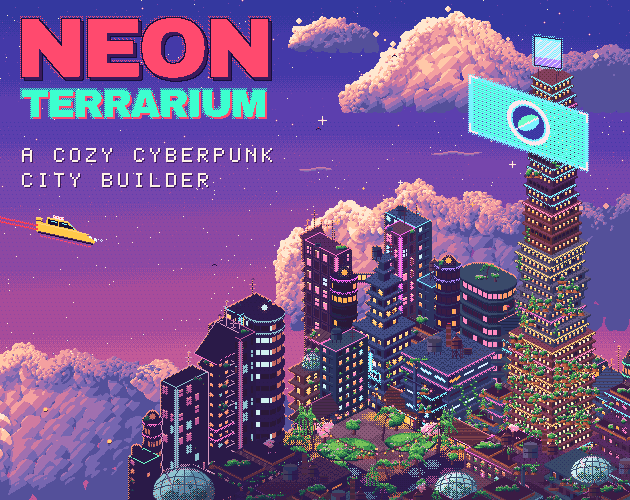
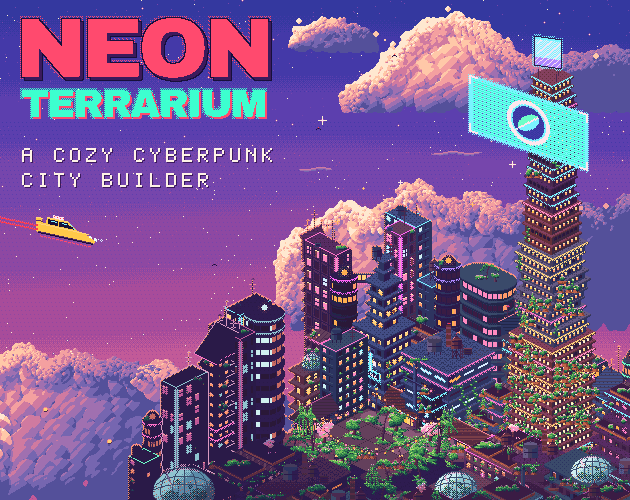
Cover art: garden plaza with organic grass patches, clean paved floor, stepped light pools
Claude-Session: https://claude.ai/code/session_01F4MPX99podf2NwUC3T9owt

Changed region(s): [[0.4524, 0.81, 0.754, 1.0], [0.754, 0.93, 0.8143, 0.96], [0.9952, 0.63, 1.0, 0.66]]

diff --git a/cover-art/cover.px.js b/cover-art/cover.px.js
@@ -207,6 +207,14 @@ const bank = (o) => {
     let t = 6; for (let j = 0; j < 6; j++) if (s > th[j]) { t = j; break }
     tone[(y - top) * bw + (x - bx0)] = t
   }
+  // close pin-holes of sky enclosed inside the cloud
+  for (let pass = 0; pass < 3; pass++) for (let y = top + 1; y < top + bh - 1; y++) for (let x = bx0 + 1; x < bx1; x++) {
+    const i = (y - top) * bw + (x - bx0)
+    if (tone[i] >= 0) continue
+    const cnt = {}; let n = 0
+    for (let dy = -1; dy <= 1; dy++) for (let dx = -1; dx <= 1; dx++) { if (!dx && !dy) continue; const t = tone[i + dy * bw + dx]; if (t >= 0) { cnt[t] = (cnt[t] || 0) + 1; n++ } }
+    if (n >= 5) tone[i] = +Object.keys(cnt).sort((p, q) => cnt[q] - cnt[p])[0]
+  }
   for (let pass = 0; pass < 2; pass++) {
     const nt = tone.slice()
     for (let y = top + 1; y < top + bh - 1; y++) for (let x = bx0 + 1; x < bx1; x++) {
@@ -310,6 +318,7 @@ const GROUND_Y = 440
 const grounded = (x, y, k) => {
   if (y < GROUND_Y || "$-+[=".includes(k)) return k
   const t = (y - GROUND_Y) / (H - GROUND_Y)
+  if ("*()AB".includes(k)) { const st = Math.floor(clamp(t, 0, 1) * 3.99); return st ? darkKey(k, 0.1 + 0.1 * st) : k }      // the floor darkens in clean bands
   return bay(x, y) < Math.min(1, t * 1.15) ? darkKey(k, 0.12 + 0.33 * t) : k
 }
 // what a raw key becomes at (x, y) once the haze, the dark corner, the warm core and the gradient are on it
@@ -326,7 +335,7 @@ const glowAround = (pts, k, reach = 2, sink) => {
     if (d === 0 || d > reach) continue
     const nx = x + dx, ny = y + dy
     if (!inb(nx, ny) || set.has(nx + ny * W)) continue
-    if (EMIT.has(get(nx, ny))) continue
+    if (EMIT.has(get(nx, ny)) || GROUNDSET.has(get(nx, ny))) continue
     if (d === 1 ? ((nx + ny) & 1) === 0 : (nx & 1) === 0 && (ny & 1) === 0) {
       if (sink) sink.push([nx, ny, k, get(nx, ny)])
       put(nx, ny, k)
@@ -573,23 +582,6 @@ const moss = (x, y, len, seed) => {
     if (ih(x + i, seed, 92) < 0.22) { put(x + i, y + 1, "o"); put(x + i, y + 2, "O") }
   }
 }
-// a mottled lawn: patches of lit, mid and shaded grass, tufts, clover flowers
-const lawn = (lx, ly, rx, ry, seed) => {
-  for (let y = -ry; y <= ry; y++) for (let x = -rx; x <= rx; x++) {
-    const dd = (x * x) / (rx * rx) + (y * y) / (ry * ry)
-    if (dd > 1) continue
-    const nz = Math.sin((lx + x) * 0.23 + seed) + Math.sin((ly + y) * 0.55 + (lx + x) * 0.07) + 0.9 * (y / ry)
-    let k = dd > 0.8 ? (y > 0 ? "8" : "O") : nz < -0.7 ? "g" : nz < 0.9 ? "o" : "O"
-    if (dd > 0.8 && y < 0) k = "o"
-    if (dd < 0.8 && ih(lx + x, ly + y, seed) < 0.1) { put(lx + x, ly + y - 1, "g"); k = "g" }
-    put(lx + x, ly + y, k)
-  }
-  for (let i = 0; i < Math.round(rx * ry / 45); i++) {
-    const px = Math.round(lx + (ih(seed, i, 31) * 2 - 1) * rx * 0.75), py = Math.round(ly + (ih(seed, i, 32) * 2 - 1) * ry * 0.7)
-    if (i % 3 === 0) put(px, py, ["z", "W", "Y"][i % 3 + (i % 2)] || "W")
-    else leafMass(px, py, 2.6, seed + i, { sq: 0.8, lr: 2 })
-  }
-}
 const stringLights = (x1, y1, x2, y2, sag, seed) => {
   const dx = x2 - x1, n = Math.max(2, Math.floor(Math.abs(dx) / 7)), cols = ["h", "L", "y", "z"]
   for (let x = Math.min(x1, x2); x <= Math.max(x1, x2); x++) { const t = (x - x1) / dx; put(x, Math.round(y1 + (y2 - y1) * t + sag * (1 - Math.pow(2 * t - 1, 2))), "E") }
@@ -601,17 +593,69 @@ const stringLights = (x1, y1, x2, y2, sag, seed) => {
   glowAround(pts, "T", 3)
 }
 const GROUNDSET = new Set("AB*()")
-const pool = (cx, cy, rx, ry, k, dens) => {
+const POOLUP = { A: "(", B: "(", "(": "*", ")": "(" }
+// warm light on the floor: a hard-edged ellipse that lifts the stone one step (two overlapping pools make two steps)
+const pool = (cx, cy, rx, ry) => {
   for (let y = -ry; y <= ry; y++) for (let x = -rx; x <= rx; x++) {
-    const dd = (x * x) / (rx * rx) + (y * y) / (ry * ry)
-    if (dd > 1 || !GROUNDSET.has(get(cx + x, cy + y))) continue
-    if (bay(cx + x, cy + y) < (1 - dd) * dens) put(cx + x, cy + y, k)
+    if ((x * x) / (rx * rx) + (y * y) / (ry * ry) > 1) continue
+    const up = POOLUP[get(cx + x, cy + y)]
+    if (up) put(cx + x, cy + y, up)
+  }
+}
+// an organic patch of grass drawn on the iso ground plane (cell units ra, rb along the two ground axes): a lumpy outline
+// with bitten edges, a lit top-left rim, a shadow rim bottom-right, tufts in clusters, tiny flowers, a few bushes and ferns
+const GREENK = "7goO8"
+const patch = (cx, cy, ra, rb, seed, o = {}) => {
+  const s1 = seed * 1.7, s2 = seed * 2.3, s3 = seed * 0.9
+  const f = (th) => 1 + 0.26 * Math.sin(3 * th + s1) + 0.16 * Math.sin(5 * th + s2) + 0.09 * Math.sin(8 * th + s3)
+  const ext = Math.ceil(Math.hypot(ra, rb) * 16 * 1.45) + 3
+  const band = 1.7 / (Math.min(ra, rb) * 15 + 1)
+  const inPatch = []
+  for (let y = -Math.ceil(ext / 2) - 2; y <= Math.ceil(ext / 2) + 2; y++) for (let x = -ext; x <= ext; x++) {
+    const a = (x / 16 + y / 8) / 2, b = (y / 8 - x / 16) / 2
+    const r = Math.hypot(a / ra, b / rb), ff = f(Math.atan2(b / rb, a / ra))
+    if (r > ff) continue
+    const e = ff - r, gx = cx + x, gy = cy + y
+    const cur = get(gx, gy)
+    if (!(GROUNDSET.has(cur) || GREENK.includes(cur))) continue
+    const h = ih(gx, gy, seed + 5), h2 = ih(gx, gy, seed + 6)
+    if (e < band * 1.1 && h < 0.3) continue
+    const facing = -(x * 0.55 + y * 0.9)
+    const nz = Math.sin(gx * 0.33 + seed) * Math.sin(gy * 0.85 + seed * 1.3)
+    let k = "o"
+    if (e < band && facing > 0) k = h2 < 0.25 ? "7" : "g"
+    else if (e < band * 1.4 && facing < 0) k = e < band * 0.55 ? "8" : "O"
+    else if (nz > 0.3 && h < 0.45) k = "g"
+    else if (nz < -0.5 && h < 0.4) k = "O"
+    else if (facing > 8 && h2 > 0.94) k = "7"
+    if (o.tint && k === "g" && facing > 0 && h < 0.08) k = o.tint
+    inPatch.push([gx, gy, e])
+    put(gx, gy, k)
+  }
+  // grass blades: short 1 to 2 px strokes, clustered
+  for (const [gx, gy, e] of inPatch) {
+    if (e < band * 1.2) continue
+    const nz = Math.sin(gx * 0.33 + seed) * Math.sin(gy * 0.85 + seed * 1.3)
+    if (nz > 0.1 && ih(gx, gy, seed + 7) < 0.13) { put(gx, gy - 1, "g"); if (ih(gx, gy, seed + 8) < 0.4) put(gx + 1, gy - 1, "7") }
+    else if (ih(gx, gy, seed + 9) > 0.992) put(gx, gy, ["z", ":", "V", "z", ":"][Math.floor(ih(gx, gy, seed + 10) * 5)])
+  }
+  if (o.bushes && inPatch.length > 60) for (let i = 0; i < o.bushes; i++) {
+    const [gx, gy] = inPatch[Math.floor(ih(seed, i, 71) * inPatch.length)]
+    if (i % 2) fern(gx, gy, seed + i); else leafMass(gx, gy - 2, 2.6 + ih(seed, i, 72) * 1.2, seed + i, { sq: 0.85, lr: 2, warm: o.warm ?? 0, dots: ih(seed, i, 73) < 0.4 ? [["z", ":"], 2] : null })
+  }
+}
+// pink petals fallen on the ground round a blossom tree
+const petals = (x, y, seed) => {
+  for (let i = 0; i < 14; i++) {
+    const px = Math.round(x + (ih(seed, i, 81) * 2 - 1) * 14), py = Math.round(y + 1 + (ih(seed, i, 82) * 2 - 1) * 6)
+    const c = get(px, py)
+    if (GROUNDSET.has(c) || GREENK.includes(c)) put(px, py, i % 3 ? "J" : "z")
   }
 }
 const streetLamp = (x, y) => {
   vlineK(x, y - 13, 13, "E"); rectK(x - 1, y - 15, 4, 2, "h")
   glowAround([[x - 1, y - 15], [x, y - 15], [x + 1, y - 15], [x + 2, y - 15], [x - 1, y - 14], [x, y - 14], [x + 1, y - 14], [x + 2, y - 14]], "T", 3)
-  pool(x, y, 11, 5, "y", 0.55)
+  pool(x, y, 11, 5)
 }
 
 // ---------------------------------------------------------------- rooftop and wall props
@@ -1407,7 +1451,7 @@ const drawBuilding = (bd) => {
     mods.push(m0)
     wallBoards(bd, m0, 2, accent, wk, ["board", "icon"], 22)
     const [px, py] = [PXs(a0, b0 + d) + Math.round(ISO * w * 0.5), PYs(a0, b0 + d) + 3]
-    pool(px, py + 3, 30, 9, "L", 0.85); pool(px, py + 3, 20, 6, "y", 0.8)
+    pool(px, py + 3, 30, 9); pool(px, py + 3, 20, 6)
     const rb = st.roofBox
     const [x1, y1] = rb.pt(a0 + 0.2, b0 + d - 0.2), [x2, y2] = rb.pt(a0 + w - 0.2, b0 + d - 0.2)
     stringLights(x1 + 2, y1 - 8, x2 - 2, y2 - 8, 4, id)
@@ -1438,7 +1482,7 @@ const drawBuilding = (bd) => {
     const nL = Math.max(2, Math.round(Math.abs(ex2 - ex1) / 11))
     for (let i = 0; i <= nL; i++) { const t = (i + 0.5) / (nL + 1); lantern(Math.round(ex1 + (ex2 - ex1) * t), Math.round(ey1 + (ey2 - ey1) * t) + 1, ["z", "y", "L"][(i + id) % 3]) }
     const [px, py] = [PXs(a0, b0 + d) + Math.round(ISO * w * 0.5), PYs(a0, b0 + d) + 3]
-    pool(px, py + 3, 26, 8, "L", 0.85); pool(px, py + 3, 16, 5, "y", 0.8)
+    pool(px, py + 3, 26, 8); pool(px, py + 3, 16, 5)
     if (!far) { const [wx, wy] = wallXY("L", { a: a0, b: b0, w, d, z: 0, h: st.z }, 6, 15); potRow(wx, wy + 2, 2, 7, id + 4); const [mx, my] = wallXY("R", { a: a0, b: b0, w, d, z: 0, h: st.z }, 4, 15); fern(mx, my + 2, id) }
   } else if (type === "grid") {
     // a boxy apartment block: a grid of small pink, peach and blue windows, each with a balcony rail and a tiny plant
@@ -1586,7 +1630,9 @@ for (let y = 150; y < H; y++) for (let x = 120; x < W; x++) {
   if (!cellOK(ia, ib)) continue
   curLevel = levelFor(y); curDark = darkFor(x, y)
   const plaza = inRect(PLAZA, ia, ib)
-  put(x, y, plaza ? ((((ia + ib) & 1) ? bay(x, y) < 0.85 : bay(x, y) < 0.35) ? "*" : "(") : (bay(x, y) < 0.22 ? "A" : "B"))
+  const fa = (u + v) / 2 - ia, fb = (v - u) / 2 - ib
+  const seam = fa < 0.034 || fb < 0.034
+  put(x, y, plaza ? (seam ? ")" : ((ia * 7 + ib * 13) % 5 === 0 ? "*" : "(")) : (seam ? "A" : "B"))
 }
 curLevel = 0; curDark = 0
 // neon spill and shop light pooled on the streets
@@ -1594,9 +1640,7 @@ for (let a = 12; a <= 70; a++) for (let b = 0; b <= 40; b++) {
   if (!cellOK(a, b) || !isStreet(a, b)) continue
   const [cx, cy] = cellXY(a, b), q = ih(a, b, 61)
   curLevel = levelFor(cy); curDark = darkFor(cx, cy)
-  if (q < 0.18) pool(cx, cy, 12, 5, "H", 0.5)
-  else if (q < 0.36) pool(cx, cy, 12, 5, "n", 0.5)
-  else if (q < 0.62) { pool(cx, cy, 14, 6, "L", 0.8); pool(cx, cy, 8, 3, "y", 0.7) }
+  if (q >= 0.36 && q < 0.62) { pool(cx, cy, 14, 6); pool(cx, cy, 8, 3) }
 }
 curLevel = 0
 const props = []
@@ -1627,6 +1671,7 @@ for (const e of order) {
     const x = cx0 + Math.round((ih(e.a, e.b, 66) - 0.5) * 14), y = cy0 + 5 + Math.round(ih(e.a, e.b, 67) * 4)
     curLevel = levelFor(cy0); curDark = darkFor(cx0, cy0)
     const wm = ih(e.a, e.b, 68) < 0.5 ? -1 : 1
+    if (e.kind !== "shrub") patch(x, y + 1, 0.3 + 0.12 * ih(e.a, e.b, 83), 0.22, sd + 3, {})
     if (e.kind === "tree") streetTree(x, y, 5 + Math.floor(ih(e.a, e.b, 69) * 4), sd, { warm: wm })
     else if (e.kind === "palm") palm(x, y, 16 + Math.floor(ih(e.a, e.b, 69) * 10), sd, wm * 4)
     else if (e.kind === "bamboo") bamboo(x, y, 16 + Math.floor(ih(e.a, e.b, 69) * 8), 3 + (sd % 2), sd)
@@ -1637,29 +1682,33 @@ for (const e of order) {
     const pcx = 16 * (PLAZA.a0 + PLAZA.w / 2 - PLAZA.b0 - PLAZA.d / 2), pcy = 8 * (PLAZA.a0 + PLAZA.w / 2 + PLAZA.b0 + PLAZA.d / 2)
     curLevel = levelFor(pcy); curDark = darkFor(pcx, pcy)
     // two mottled lawns; then, back to front, bamboo, palms, a pair of blossom trees, round trees, benches, pots, ferns
-    lawn(pcx - 30, pcy + 5, 30, 12, 3); lawn(pcx + 34, pcy - 2, 26, 10, 7)
+    // two big organic beds with clear stone paths between them, patches at the foot of every tree, along the edges and in the cracks
+    patch(pcx - 30, pcy + 6, 1.05, 0.62, 3, { tint: "H", bushes: 4 }); patch(pcx + 36, pcy - 2, 0.9, 0.55, 7, { tint: "n", bushes: 3, warm: -1 })
+    const grove = (x, y, sd, k = 1, tint) => patch(x, y + 1, 0.38 * k, 0.28 * k, sd, { tint, bushes: k > 1 ? 1 : 0 })
+    for (const [x, y, ra, rb, sd] of [[-58, 14, 0.4, 0.26, 21], [54, 16, 0.45, 0.26, 22], [-4, -24, 0.5, 0.3, 23], [62, -8, 0.32, 0.22, 26]]) patch(pcx + x, pcy + y, ra, rb, sd, { tint: x < 0 ? "H" : "n", bushes: ra > 0.45 ? 1 : 0 })
+    for (let i = 0; i < 9; i++) { const a = 37 + 5 * ih(i, 1, 90), b = 14 + 4 * ih(i, 2, 90); const [tx, ty] = cellXY(a, b); if (Math.hypot(tx - pcx, (ty - pcy) * 2) > 28) patch(tx, ty - 8, 0.08 + 0.05 * ih(i, 3, 90), 0.06, 40 + i, {}) }
     const bench = (x, y) => { spr(x, y, ["UUUUUUUU", ".E....E."]); hlineK(x - 4, y - 2, 8, "T") }
     const items = [
-      [pcy - 10, () => bamboo(pcx - 70, pcy - 10, 30, 5, 5)],
-      [pcy - 12, () => bamboo(pcx + 70, pcy - 12, 26, 4, 9)],
-      [pcy - 14, () => streetTree(pcx + 20, pcy - 14, 8, 11, { warm: -1 })],
-      [pcy - 10, () => streetTree(pcx - 22, pcy - 10, 7, 12, { warm: 1 })],
-      [pcy - 4, () => palm(pcx + 6, pcy - 4, 30, 3, 6)],
-      [pcy - 2, () => sakura(pcx - 52, pcy - 2, 9, 13, { warm: 1 })],
-      [pcy - 4, () => sakura(pcx + 54, pcy - 4, 8, 14, { warm: -1 })],
-      [pcy + 4, () => palm(pcx - 64, pcy + 6, 34, 2, -6)],
-      [pcy + 6, () => palm(pcx + 62, pcy + 8, 28, 1, 6)],
+      [pcy - 10, () => { grove(pcx - 70, pcy - 10, 31); bamboo(pcx - 70, pcy - 10, 30, 5, 5) }],
+      [pcy - 12, () => { grove(pcx + 70, pcy - 12, 32); bamboo(pcx + 70, pcy - 12, 26, 4, 9) }],
+      [pcy - 14, () => { grove(pcx + 20, pcy - 14, 33, 1.3); streetTree(pcx + 20, pcy - 14, 8, 11, { warm: -1 }) }],
+      [pcy - 10, () => { grove(pcx - 22, pcy - 10, 34, 1.2); streetTree(pcx - 22, pcy - 10, 7, 12, { warm: 1 }) }],
+      [pcy - 4, () => { grove(pcx + 6, pcy - 4, 35); palm(pcx + 6, pcy - 4, 30, 3, 6) }],
+      [pcy - 2, () => { grove(pcx - 52, pcy - 2, 36, 1.4, 'H'); sakura(pcx - 52, pcy - 2, 9, 13, { warm: 1 }); petals(pcx - 52, pcy - 2, 3) }],
+      [pcy - 4, () => { grove(pcx + 54, pcy - 4, 37, 1.3, 'n'); sakura(pcx + 54, pcy - 4, 8, 14, { warm: -1 }); petals(pcx + 54, pcy - 4, 5) }],
+      [pcy + 4, () => { grove(pcx - 64, pcy + 6, 38); palm(pcx - 64, pcy + 6, 34, 2, -6) }],
+      [pcy + 6, () => { grove(pcx + 62, pcy + 8, 39); palm(pcx + 62, pcy + 8, 28, 1, 6) }],
       [pcy + 8, () => { hedge(pcx - 58, pcy + 8, 14, 3, { bloom: true }); hedge(pcx + 44, pcy + 8, 14, 5, { bloom: true }) }],
       [pcy + 4, () => bench(pcx + 22, pcy + 4)],
       [pcy + 14, () => { bench(pcx - 4, pcy + 14); potRow(pcx - 16, pcy + 14, 3, 6, 21) }],
-      [pcy + 14, () => streetTree(pcx - 34, pcy + 18, 7, 15, { warm: 1 })],
-      [pcy + 16, () => { streetTree(pcx + 40, pcy + 20, 9, 16, { warm: -1 }); fern(pcx + 30, pcy + 22, 4); moss(pcx + 24, pcy + 24, 6, 4) }],
-      [pcy + 18, () => { potRow(pcx + 4, pcy + 24, 4, 7, 33); planter(pcx - 50, pcy + 26, 9, 8) }],
+      [pcy + 14, () => { grove(pcx - 34, pcy + 18, 41, 1.3); streetTree(pcx - 34, pcy + 18, 7, 15, { warm: 1 }) }],
+      [pcy + 16, () => { grove(pcx + 40, pcy + 20, 42, 1.5); streetTree(pcx + 40, pcy + 20, 9, 16, { warm: -1 }); fern(pcx + 30, pcy + 22, 4); moss(pcx + 24, pcy + 24, 6, 4) }],
+      [pcy + 18, () => { patch(pcx - 40, pcy + 28, 0.2, 0.12, 43, {}); patch(pcx + 20, pcy + 30, 0.18, 0.12, 44, {}); potRow(pcx + 4, pcy + 24, 4, 7, 33); planter(pcx - 50, pcy + 26, 9, 8); for (const [mx, my, ml] of [[-70, 4, 6], [-18, -32, 5], [28, -28, 6], [66, 6, 5], [10, 34, 6]]) moss(pcx + mx, pcy + my, ml, ml + mx) }],
     ]
     items.sort((p, q) => p[0] - q[0])
     for (const it of items) it[1]()
     const posts = [[pcx - 62, pcy], [pcx, pcy - 30], [pcx + 62, pcy], [pcx, pcy + 30]]
-    for (const [x, y] of posts) { vlineK(x, y - 24, 24, "E"); rectK(x - 1, y - 26, 3, 2, "h"); pool(x, y + 2, 16, 6, "L", 0.8) }
+    for (const [x, y] of posts) { vlineK(x, y - 24, 24, "E"); rectK(x - 1, y - 26, 3, 2, "h"); pool(x, y + 2, 16, 6) }
     for (let i = 0; i < 4; i++) { const [x1, y1] = posts[i], [x2, y2] = posts[(i + 1) % 4]; stringLights(x1, y1 - 22, x2, y2 - 22, 6, i) }
     curLevel = 0; curDark = 0
   } else drawBuilding(e.b)
